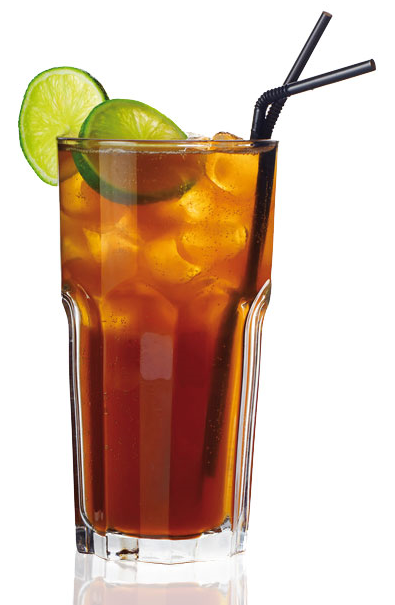
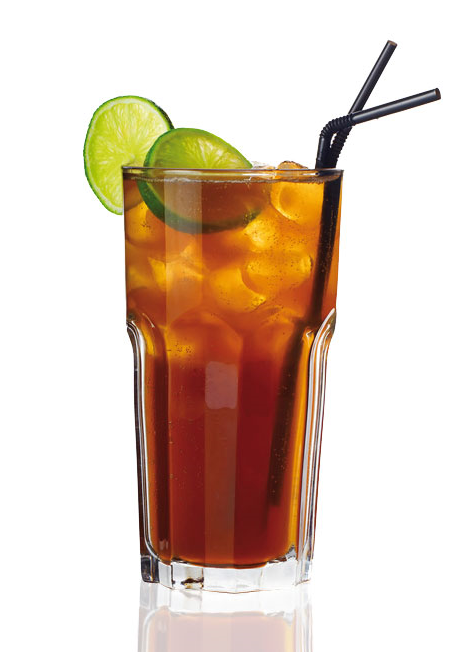
Added unit tests, fixed build and implemented carousel

diff --git a/badmin/badmin.cocktail/src/test/kotlin/nl/tumbolia/bar/badmin/cocktail/controllertests.kt b/badmin/badmin.cocktail/src/test/kotlin/nl/tumbolia/bar/badmin/cocktail/controllertests.kt
@@ -1,0 +1,131 @@
+package nl.tumbolia.bar.badmin.cocktail
+
+import org.junit.runner.RunWith
+import org.springframework.test.context.junit4.SpringRunner
+import org.springframework.boot.test.autoconfigure.web.servlet.WebMvcTest
+import org.springframework.beans.factory.annotation.Autowired
+import org.springframework.boot.test.mock.mockito.MockBean
+import org.springframework.test.web.servlet.MockMvc
+import org.junit.Test
+import org.mockito.BDDMockito
+import org.springframework.http.MediaType
+import org.springframework.test.web.servlet.request.MockMvcRequestBuilders
+import org.springframework.test.web.servlet.result.MockMvcResultMatchers
+import java.util.ArrayList
+import com.mongodb.util.JSON
+import org.junit.Before
+import java.util.Arrays
+import kotlin.reflect.jvm.internal.impl.load.kotlin.JvmType.Array
+import org.mockito.Mockito
+
+@RunWith(SpringRunner::class)
+@WebMvcTest(CocktailController::class)
+open class CocktailControllerTest
+{
+	@Autowired
+    lateinit  var mockMvc: MockMvc
+	
+	@MockBean
+    lateinit  var mockCocktailRepository : CocktailRepository
+	
+	var cocktail: Cocktail = Cocktail("bloudymary", "name", "description", "recipe", ArrayList())
+	
+	@Before
+	fun setup()
+	{
+		BDDMockito.given(this.mockCocktailRepository.exists("bloudymary")).willReturn(true);
+		BDDMockito.given(this.mockCocktailRepository.findOne("bloudymary")).willReturn(cocktail);
+	}
+
+    @Test
+    fun testFindAll()
+	{
+    	val cocktails: MutableList<Cocktail> = mutableListOf(cocktail)
+    	BDDMockito.given(this.mockCocktailRepository.findAll()).willReturn(cocktails);
+		
+        mockMvc.perform(MockMvcRequestBuilders.get("/api").accept(MediaType.APPLICATION_JSON))
+                .andExpect(MockMvcResultMatchers.status().isOk()).andExpect(MockMvcResultMatchers.content().string("[{\"id\":\"bloudymary\",\"name\":\"name\",\"description\":\"description\",\"recipe\":\"recipe\",\"ingredients\":[]}]"));
+    }
+	
+	@Test
+    fun testFindAllEmpty()
+	{   
+        mockMvc.perform(MockMvcRequestBuilders.get("/api").accept(MediaType.APPLICATION_JSON))
+                .andExpect(MockMvcResultMatchers.status().isOk()).andExpect(MockMvcResultMatchers.content().string("[]"))
+    }
+	
+	@Test
+    fun testFindOne()
+	{    		
+        mockMvc.perform(MockMvcRequestBuilders.get("/api/bloudymary").accept(MediaType.APPLICATION_JSON))
+                .andExpect(MockMvcResultMatchers.status().isOk()).andExpect(MockMvcResultMatchers.content().string("{\"id\":\"bloudymary\",\"name\":\"name\",\"description\":\"description\",\"recipe\":\"recipe\",\"ingredients\":[]}"))
+    }
+	
+	@Test
+    fun testFindNone()
+	{   
+        mockMvc.perform(MockMvcRequestBuilders.get("/api/unknown").accept(MediaType.APPLICATION_JSON))
+                .andExpect(MockMvcResultMatchers.status().isOk()).andExpect(MockMvcResultMatchers.content().string(""))
+    }
+	
+	@Test
+	fun testUpdateCocktailInvalid()
+	{
+		mockMvc.perform(MockMvcRequestBuilders.put("/api/invalid").accept(MediaType.APPLICATION_JSON).contentType(MediaType.APPLICATION_JSON).content("{\"id\":\"bossprinter\",\"name\":\"bos sprinter\",\"description\":\"De enige echte!\",\"recipe\":\"Gooi maar bij elkaar\",\"ingredients\":[]}"))
+				.andExpect(MockMvcResultMatchers.status().isBadRequest()).andExpect(MockMvcResultMatchers.content().string(""))
+		
+		Mockito.verify(mockCocktailRepository,Mockito.never()).save(Mockito.any(Cocktail::class.java))
+	}
+	
+	@Test
+	fun testUpdateCocktailNotFound()
+	{
+		mockMvc.perform(MockMvcRequestBuilders.put("/api/bossprinter").accept(MediaType.APPLICATION_JSON).contentType(MediaType.APPLICATION_JSON).content("{\"id\":\"bossprinter\",\"name\":\"bos sprinter\",\"description\":\"De enige echte!\",\"recipe\":\"Gooi maar bij elkaar\",\"ingredients\":[]}"))
+				.andExpect(MockMvcResultMatchers.status().isNotFound()).andExpect(MockMvcResultMatchers.content().string(""))
+		Mockito.verify(mockCocktailRepository,Mockito.never()).save(Mockito.any(Cocktail::class.java));
+	}
+	
+	@Test
+	fun testUpdateCocktail()
+	{
+		mockMvc.perform(MockMvcRequestBuilders.put("/api/bloudymary").accept(MediaType.APPLICATION_JSON).contentType(MediaType.APPLICATION_JSON).content("{\"id\":\"bloudymary\",\"name\":\"name\",\"description\":\"description updated\",\"recipe\":\"recipe\",\"ingredients\":[]}"))
+				.andExpect(MockMvcResultMatchers.status().isOk()).andExpect(MockMvcResultMatchers.content().string(""))
+		
+		Mockito.verify(mockCocktailRepository,Mockito.times(1)).save(Mockito.any(Cocktail::class.java));
+	}
+	
+	@Test
+	fun testAddCocktailExists()
+	{
+		mockMvc.perform(MockMvcRequestBuilders.post("/api").accept(MediaType.APPLICATION_JSON).contentType(MediaType.APPLICATION_JSON).content("{\"id\":\"bloudymary\",\"name\":\"bos sprinter\",\"description\":\"De enige echte!\",\"recipe\":\"Gooi maar bij elkaar\",\"ingredients\":[]}"))
+				.andExpect(MockMvcResultMatchers.status().isConflict()).andExpect(MockMvcResultMatchers.content().string(""))
+		Mockito.verify(mockCocktailRepository,Mockito.never()).insert(Mockito.any(Cocktail::class.java));
+	}
+	
+	@Test
+	fun testAddCocktail()
+	{
+		mockMvc.perform(MockMvcRequestBuilders.post("/api").accept(MediaType.APPLICATION_JSON).contentType(MediaType.APPLICATION_JSON).content("{\"id\":\"gintonic\",\"name\":\"name\",\"description\":\"description updated\",\"recipe\":\"recipe\",\"ingredients\":[]}"))
+				.andExpect(MockMvcResultMatchers.status().isCreated()).andExpect(MockMvcResultMatchers.content().string(""))
+		
+		Mockito.verify(mockCocktailRepository,Mockito.times(1)).insert(Mockito.any(Cocktail::class.java));
+	}
+	
+	@Test
+	fun testDeleteCocktailNotFound()
+	{
+		mockMvc.perform(MockMvcRequestBuilders.delete("/api/bossprinter").accept(MediaType.APPLICATION_JSON))
+				.andExpect(MockMvcResultMatchers.status().isNotFound()).andExpect(MockMvcResultMatchers.content().string(""))
+		Mockito.verify(mockCocktailRepository,Mockito.never()).delete(Mockito.anyString());
+	}
+	
+	@Test
+	fun testDeleteCocktail()
+	{
+		mockMvc.perform(MockMvcRequestBuilders.delete("/api/bloudymary").accept(MediaType.APPLICATION_JSON))
+				.andExpect(MockMvcResultMatchers.status().isOk()).andExpect(MockMvcResultMatchers.content().string(""))
+		
+		Mockito.verify(mockCocktailRepository,Mockito.times(1)).delete("bloudymary");
+	}
+
+}

diff --git a/badmin/badmin.cocktail/src/main/frontend/src/app/cocktail.service.ts b/badmin/badmin.cocktail/src/main/frontend/src/app/cocktail.service.ts
@@ -1,0 +1,51 @@
+import { Injectable } from '@angular/core';
+import { Http, Response, Headers} from '@angular/http';
+import { Observable } from 'rxjs/Rx';
+import { Cocktail } from './cocktail';
+
+@Injectable()
+export class CocktailService{
+  private baseUrl: string = 'http://localhost:8080/api';
+
+  constructor(private http : Http){
+  }
+
+  getAll(): Observable<Cocktail[]>{
+    let cocktails$ = this.http
+      .get(`${this.baseUrl}/`, {headers: this.getHeaders()})
+      .map(mapCocktails)
+      .catch(handleError);
+      return cocktails$;
+  }
+
+  private getHeaders(){
+    let headers = new Headers();
+    headers.append('Accept', 'application/json');
+    return headers;
+  }
+}
+
+function mapCocktails(response:Response): Cocktail[]{
+   console.log(response);
+   return response.json().map(toCocktail)
+}
+
+function toCocktail(r:any): Cocktail{
+  let cocktail = <Cocktail>({
+    id: r.id,
+    name: r.name,
+    description: r.description,
+    recipe: r.recipe
+  });
+  console.log('Parsed cocktail:', cocktail);
+  return cocktail;
+}
+
+function handleError (error: any) {
+    
+  console.error(error);
+  let errorMsg = error.message || `Could not retrieve cocktails`
+  console.error(errorMsg);
+
+  return Observable.throw(errorMsg);
+}

diff --git a/badmin/badmin.cocktail/src/main/frontend/src/app/app.component.html b/badmin/badmin.cocktail/src/main/frontend/src/app/app.component.html
@@ -1,24 +1,2 @@
-<carousel>
-   <slide>
-     <img src="assets/images/cocktail1.png" alt="First slide">
-     <div class="carousel-caption">
-       <h3>First slide label</h3>
-       <p>Nulla vitae elit libero, a pharetra augue mollis interdum.</p>
-     </div>
-   </slide>
-   <slide>
-     <img src="assets/images/cocktail1.png" alt="First slide">
-     <div class="carousel-caption">
-       <h3>Second slide label</h3>
-       <p>Lorem ipsum dolor sit amet, consectetur adipiscing elit.</p>
-     </div>
-   </slide>
-   <slide>
-     <img src="assets/images/cocktail1.png" alt="First slide">
-     <div class="carousel-caption">
-       <h3>Third slide label</h3>
-       <p>Praesent commodo cursus magna, vel scelerisque nisl consectetur.</p>
-     </div>
-   </slide>
- </carousel>
+<cocktails></cocktails>
 

diff --git a/badmin/badmin.cocktail/src/main/frontend/src/app/cocktail.component.ts b/badmin/badmin.cocktail/src/main/frontend/src/app/cocktail.component.ts
@@ -1,0 +1,24 @@
+import { Component, OnInit } from '@angular/core';
+import { Cocktail } from './cocktail';
+import { CocktailService } from './cocktail.service';
+
+@Component({
+  selector: 'cocktails',
+  templateUrl: './cocktail.component.html'
+})
+export class CocktailsComponent implements OnInit{
+  cocktails: Cocktail[] = [];
+  errorMessage: string = '';
+  isLoading: boolean = true;
+
+  constructor(private cocktailService : CocktailService){ }
+
+  ngOnInit(){
+    this.cocktailService
+      .getAll()
+      .subscribe(
+         /* happy path */ p => this.cocktails = p,
+         /* error path */ e => this.errorMessage = e,
+         /* onComplete */ () => this.isLoading = false);
+  }
+}

diff --git a/badmin/badmin.cocktail/src/main/frontend/src/app/cocktail.component.html b/badmin/badmin.cocktail/src/main/frontend/src/app/cocktail.component.html
@@ -1,0 +1,18 @@
+ <section>
+    <section *ngIf="isLoading && !errorMessage">
+    Loading cocktails...
+    </section>
+    <carousel data-interval="false">
+    	<slide *ngFor="let cocktail of cocktails">
+    		<img src="assets/images/cocktail1.png" alt="{{cocktail.name}}">
+		    <div class="carousel-caption">
+		    	<h3>{{cocktail.name}}</h3>
+		       	<p>{{cocktail.description}}</p>
+		       	<p>{{cocktail.recipe}}</p>
+			</div>
+    	</slide>
+    </carousel>
+	<section *ngIf="errorMessage">
+        {{errorMessage}}
+	</section>
+</section>

diff --git a/badmin/badmin.cocktail/src/main/frontend/src/app/app.module.ts b/badmin/badmin.cocktail/src/main/frontend/src/app/app.module.ts
@@ -5,10 +5,11 @@ import { HttpModule } from '@angular/http';
 import { CarouselModule } from 'ng2-bootstrap/carousel';
 
 import { AppComponent } from './app.component';
+import { CocktailsComponent } from './cocktail.component';
 
 @NgModule({
   declarations: [
-    AppComponent
+    AppComponent, CocktailsComponent
   ],
   imports: [
     CarouselModule.forRoot(),

diff --git a/badmin/badmin.cocktail/src/main/frontend/src/app/app.component.ts b/badmin/badmin.cocktail/src/main/frontend/src/app/app.component.ts
@@ -1,9 +1,11 @@
 import { Component } from '@angular/core';
+import { CocktailService } from './cocktail.service';
 
 @Component({
   selector: 'app-root',
   templateUrl: './app.component.html',
-  styleUrls: ['./app.component.css']
+  styleUrls: ['./app.component.css'],
+  providers: [CocktailService]
 })
 export class AppComponent {
   title = 'Its reloaded to';

diff --git a/badmin/badmin.cocktail/src/main/frontend/src/app/app.component.css b/badmin/badmin.cocktail/src/main/frontend/src/app/app.component.css
@@ -1,9 +1,13 @@
 slide
 {
-	background: white;
 	border-top: 3px solid #5a5c51;
 	border-bottom: 2px solid #cccc33;
-	margin-left : auto;
-	margin-right: auto;
-	max-width: 600px;
+	width: 450px;
+	margin: auto;
+}
+
+slide img
+{
+    -webkit-filter: opacity(30%); /* Safari */
+    filter: opacity(30%);
 }

diff --git a/badmin/badmin.cocktail/src/main/kotlin/nl/tumbolia/bar/badmin/cocktail/controller.kt b/badmin/badmin.cocktail/src/main/kotlin/nl/tumbolia/bar/badmin/cocktail/controller.kt
@@ -51,6 +51,7 @@ class CocktailController(val cocktails: CocktailRepository) {
 		if (!cocktails.exists(id)) {
 			return ResponseEntity.status(HttpStatus.NOT_FOUND).body(null)
 		}
+		cocktails.delete(id)
 		return ResponseEntity.ok(null)
 	}
 }

diff --git a/badmin/badmin.cocktail/src/main/frontend/src/index.html b/badmin/badmin.cocktail/src/main/frontend/src/index.html
@@ -10,6 +10,6 @@
 </head>
 <body>
   <h1 class="flex"><span class="header1">Bad</span><span class="header2">min</span></h1>
-  <app-root>Loading cocktails...</app-root>
+  <app-root>BADmin loading</app-root>
 </body>
 </html>

diff --git a/badmin/badmin.cocktail/src/main/frontend/src/app/cocktail.ts b/badmin/badmin.cocktail/src/main/frontend/src/app/cocktail.ts
@@ -1,0 +1,6 @@
+export interface Cocktail {
+    id: string;
+    name: string;
+    description: string;
+    recipe: string;
+}
